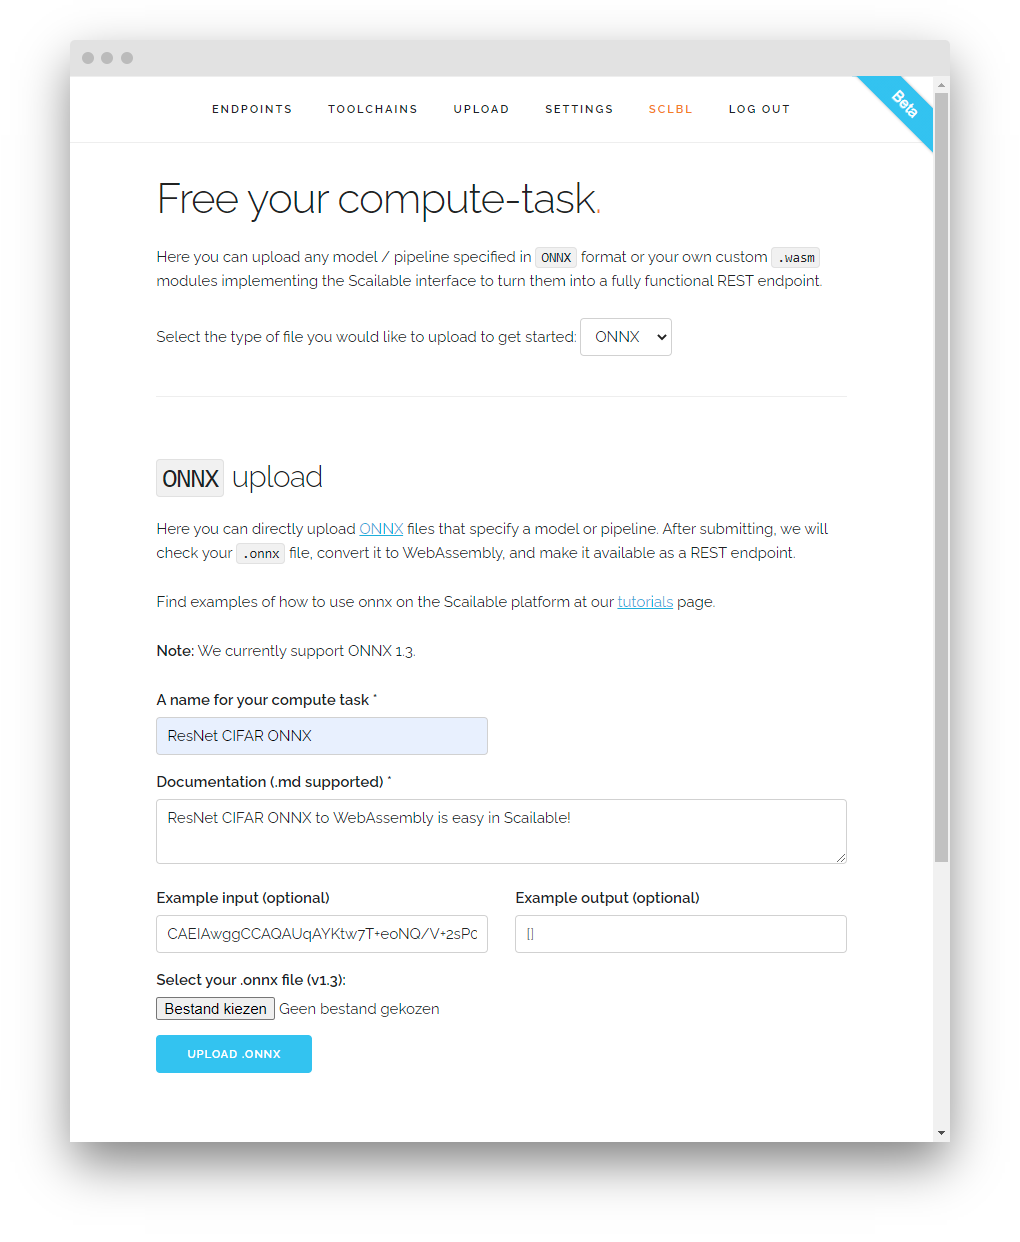
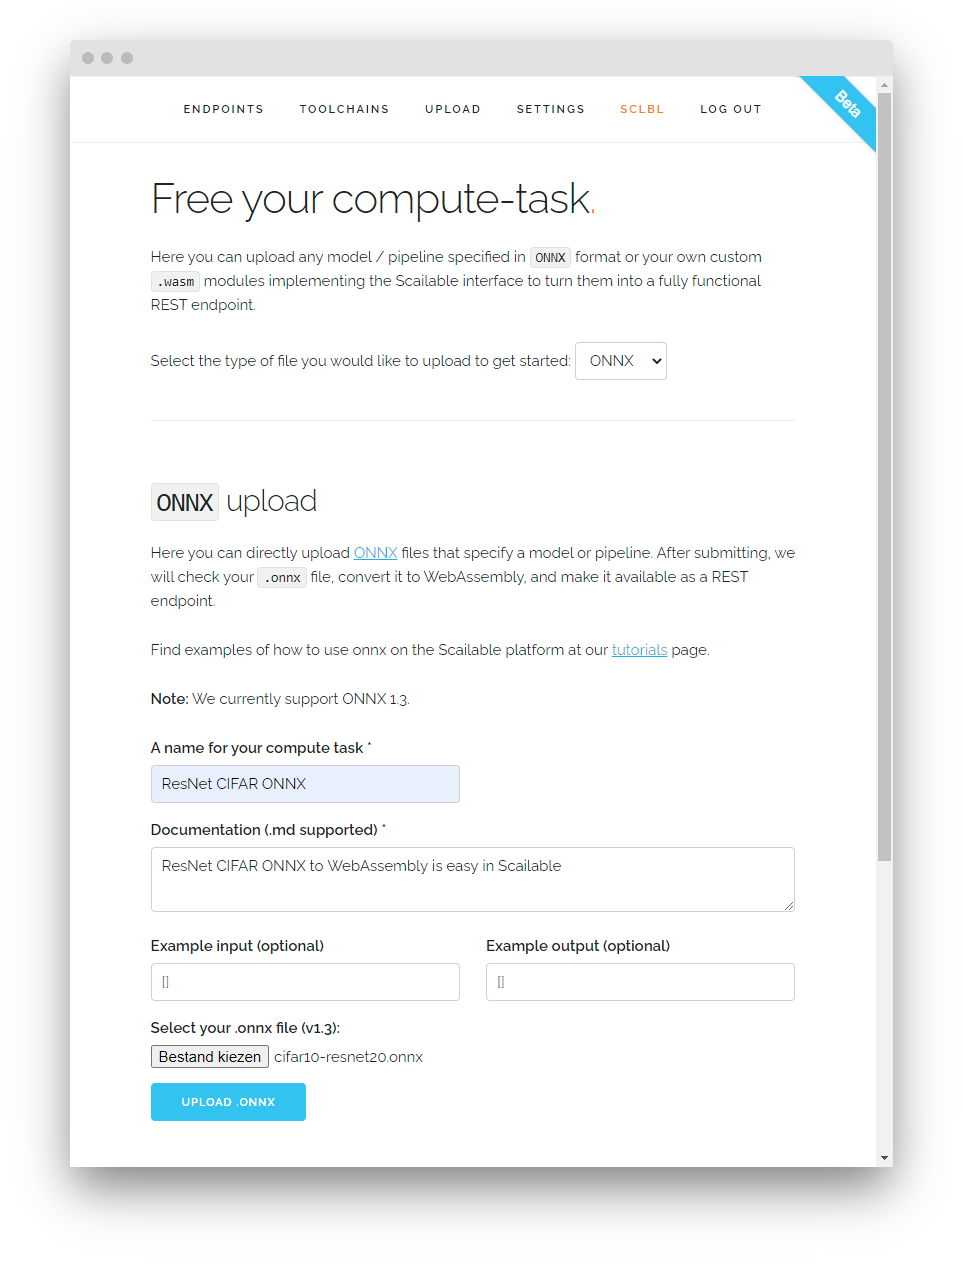
Minor edits and fixes to the PyTorch tutorial.

diff --git a/sclbl-pytorch-onnx/sources/cifar10-resnet20.py b/sclbl-pytorch-onnx/sources/cifar10-resnet20.py
@@ -1,7 +1,3 @@
-### 0.  Define CIFAR classes
-
-classes = ('plane', 'car', 'bird', 'cat', 'deer', 'dog', 'frog', 'horse', 'ship', 'truck')
-
 ### 1.  PyTorch model definition
 
 import torch.nn as nn
@@ -113,8 +109,9 @@ import torch
 state_dict = torch.load('../resources/weights/cifar10-resnet20.pth')
 model.load_state_dict(state_dict, strict=False)
 
-# set the train mode to false since we will only run the forward pass.
-model.train(False)
+# Evaluation mode on, training mode off. 
+# Necessary since layers such as dropout and batchnorm 
+# behave differently during training versus evaluation phases.
 model.eval()
 
 
@@ -125,6 +122,9 @@ model.eval()
 
 from PIL import Image
 import numpy as np
+
+# Class labels for CIFAR classes 0 to 9
+classes = ('plane', 'car', 'bird', 'cat', 'deer', 'dog', 'frog', 'horse', 'ship', 'truck')
 
 # Process the image
 def process_image(image_path):
@@ -187,12 +187,9 @@ print("The PyTorch model predicts the image is a", classes[top_class] + ".")
 
 ### 4a. Convert PyTorch to ONNX
 
-# generate dummy image
-x = torch.randn(1, 3, 32, 32, dtype=torch.float32)
-
 # export the model
 torch.onnx.export(model,                     # pytorch model
-                  x,                         # dummy input
+                  image,                     # example or dummy input
                   "cifar10-resnet20.onnx",   # name of onnx file                 
                   export_params=True,        # store the trained parameter weights inside the model file
                   opset_version=7,           # the ONNX version to export the model to
@@ -212,7 +209,9 @@ from onnxsim import simplify
 model_path     = './cifar10-resnet20.onnx'
 optimized_model = onnx.load(model_path)
 
-# set ONNX version and ONNX ir_version correctly  
+# set ONNX version and ONNX ir_version.
+# scailable currently supports ONNX version <= 1.3,
+# with ONNX IR version <= 3 and ONNX Operator Set <= 8
 optimized_model = version_converter.convert_version(optimized_model, 7) 
 optimized_model.ir_version = 3
 
@@ -243,7 +242,7 @@ onnxrt_outs = onnx_model.run(None, onnxrt_inputs)
 print(onnxrt_outs[0])
 
 # Print the prediction
-print("The PyTorch model predicts the image is a", classes[np.argmax(onnxrt_outs[0])] + ".")
+print("The ONNX model predicts the image is a", classes[np.argmax(onnxrt_outs[0])] + ".")
 
 
 

diff --git a/sclbl-pytorch-onnx/README.md b/sclbl-pytorch-onnx/README.md
@@ -6,7 +6,7 @@ In this tutorial we demonstrate how to convert a [PyTorch](https://pytorch.org/)
 In this tutorial we will cover the following steps:
 
 1. [Preparing your pretrained PyTorch model](#PyTorch). First, we prepare a pretrained PyTorch model for conversion to ONNX.
-2. [Converting the PyTorch model to ONNX](#ONNX). Next, we run the actual conversion of the PyTorch model to ONNX, clean the ONNX up, and check whether its predictions still conform to the original PyTorch model.
+2. [Converting the PyTorch model to ONNX](#ONNX). Next, we run the actual conversion of the PyTorch model to ONNX, clean the ONNX, and check whether its predictions still conform to the original PyTorch model.
 4. [ONNX model to Scailable task](#Scailable). Finally, we demonstrate how to upload the ResNet ONNX model to Scailable and how to run the resulting Scailable task directly on our servers (or in your browser).
 
 Note: The full Python source code of the current tutorial can be found in the [sources](sources) subdirectory, whereas the pretrained model's weights and CIFAR example images can be found in this tutorial's [resources](resources) subdirectory.
@@ -25,21 +25,9 @@ In the figure below, an overview of the classes in the dataset, together with 10
 
 We converted a subset of 100 (10 of each class) of the images into 32x32 PNG format. These converted images are available in the [resources/cifar](resources/cifar) subdirectory of the root PyTorch tutorial directory.
 
-### B. CIFAR classes 
+### B. Define the ResNet pretrained model
 
-To make it easier to compare the predicted category index to the correct label, we now order the classes in a Python tuple:
-
-```python
-classes = ('plane', 'car', 'bird', 'cat', 'deer', 'dog', 'frog', 'horse', 'ship', 'truck')
-```
-
-### C. Define the ResNet pretrained model
-
-The pretrained ResNet 20-layer model we will be converting in the current tutorial [was kindly made available on GitHub](https://github.com/chenyaofo/CIFAR-pretrained-models) by [Chenyaofo](https://github.com/chenyaofo). The accuracy of the relatively small (about 1 MB) 20-layer model is impressive:
-
-| Model    | Acc@1(C10) | Acc@5(C10) | Acc@1(C100) | Acc@5(C100) | #param. | FLOPs  |
-| -------- | ---------- | ---------- | ----------- | ----------- | ------- | ------ |
-| Resnet20 | 91.65      | 99.68      | 66.61       | 89.95       | 0.27M   | 40.81M |
+The pretrained ResNet 20-layer model we will be converting in the current tutorial [was kindly made available on GitHub](https://github.com/chenyaofo/CIFAR-pretrained-models) by [Chenyaofo](https://github.com/chenyaofo). 
 
 The PyTorch ResNet model consists of two parts, the model weights, which are available in our tutorial's resources/weights directory, and the model definition. The latter reads as follows:
 
@@ -151,27 +139,29 @@ class CifarResNet(nn.Module):
 model = CifarResNet(BasicBlock, [3, 3, 3], num_classes=10)
 ```
 
-### D. Merge model and weights
+### C. Merge model and weights
 
-Now that we have defined the model's structure, we can load the pretrained weights, merge them with the model, and freeze it:
+Now that we have defined the model's structure, we can load the pretrained weights, merge them with the model, and turn training mode off / evaluation mode on.
 
 ```python
 # Load the weights from a file (.pth usually)
 state_dict = torch.load('../resources/weights/cifar10-resnet20.pth')
 model.load_state_dict(state_dict, strict=False)
 
-# set the train mode to false since we will only run the forward pass.
-model.train(False)
+# Evaluation mode on, training mode off. Needed because layers such as dropout and batchnorm behave differently in train and test procedures.
 model.eval()
 ```
 
-### E. Optional: Run a prediction with the frozen PyTorch model
+### D. Optional: Run a prediction with the fitted PyTorch model
 
-Lets check if the frozen pretrained model is indeed able to recognize random CIFAR images. To do so, we first need to define some helper functions that preprocesses the images in exactly the same way as during the original training:
+Lets check if the pretrained model is indeed able to recognize random CIFAR images. To do so, we first need to define some helper functions that preprocesses the images in exactly the same way as during the original training:
 
 ```python
 from PIL import Image
 import numpy as np
+
+# Class labels for CIFAR classes 0 to 9
+classes = ('plane', 'car', 'bird', 'cat', 'deer', 'dog', 'frog', 'horse', 'ship', 'truck')
 
 # Process the image
 def process_image(image_path):
@@ -245,7 +235,7 @@ On running the code, the PyTorch model successfully predicts a horse - yay!
 <a name="ONNX"></a>
 
 # 2. PyTorch to ONNX
-Where the previous section offered a basic overview of generic PyTorch modeling, the current section demonstrates how to convert any PyTorch model to the open ONNX format. To quote [ONNX.ai](https://onnx.ai/):
+The current section demonstrates how to convert any PyTorch model to the open ONNX format. To quote [ONNX.ai](https://onnx.ai/):
 
 > **ONNX is an open format built to represent machine learning models.** ONNX defines a common set of operators - the building blocks of machine learning and deep learning models - and a common file format to enable AI developers to use models with a variety of frameworks, tools, runtimes, and compilers.
 >
@@ -255,21 +245,18 @@ Since Scailable offers out-of-the-box [ONNX](https://onnx.ai/) to [WebAssembly](
 
 ### A. Main PyTorch to ONNX conversion
 
-The frozen [ResNet](https://en.wikipedia.org/wiki/Residual_neural_network) model of the previous section is all set to be converted to ONNX. Which just takes the two following lines of code:
+The fitted [ResNet](https://en.wikipedia.org/wiki/Residual_neural_network) model of the previous section is all set to be converted to ONNX. ONNX export from Pytorch is done by tracing the graph; that is, it executes the graph once with an example or dummy input it's given. While executing the graph, it keeps track of PyTorch operations executed and then converts each of those operations to ONNX format. 
 
 ```python
-# generate dummy image
-x = torch.randn(1, 3, 32, 32, dtype=torch.float32)
-
 # export the model
 torch.onnx.export(model,                     # pytorch model
-                  x,                         # dummy input
+                  image,                     # example or dummy input
                   "cifar10-resnet20.onnx",   # name of onnx file                 
-                  export_params=True,        # store the trained parameter weights inside the model file
+                  export_params=True,        # store trained parameter weights inside the model file
                   opset_version=7,           # the ONNX version to export the model to
                   do_constant_folding=True,  # whether to execute constant folding for optimization
-                  input_names = ['input'],   # the model's input node name - "input" is generally the safest choice
-                  output_names = ['output']) # the model's output node name - "output" is generally the safest choice
+                  input_names = ['input'],   # the model's input node name; "input" is the safest choice
+                  output_names = ['output']) # the model's output node name; "output" is the safest choice
 ```
 
 ### B. Cleaning up
@@ -286,7 +273,9 @@ from onnxsim import simplify
 model_path     = './cifar10-resnet20.onnx'
 optimized_model = onnx.load(model_path)
 
-# set ONNX version and ONNX ir_version correctly  
+# set ONNX version and ONNX ir_version.
+# scailable currently supports ONNX version <= 1.3,
+# with ONNX IR version <= 3 and ONNX Operator Set <= 8
 optimized_model = version_converter.convert_version(optimized_model, 7) 
 optimized_model.ir_version = 3
 
@@ -320,7 +309,7 @@ onnxrt_outs = onnx_model.run(None, onnxrt_inputs)
 print(onnxrt_outs[0])
 
 # Print the prediction
-print("The PyTorch model predicts the image is a", classes[np.argmax(onnxrt_outs[0])] + ".")
+print("The ONNX model predicts the image is a", classes[np.argmax(onnxrt_outs[0])] + ".")
 ```
 
 Let's run the code, and see what the ONNX model predicts:
@@ -344,9 +333,33 @@ With a value of 20.078842, our model picks "horse" again - looking good! We are 
 
 Once you have followed the guidelines above and have generated a standards compliant ONNX v1.3 model, you can now just upload the resulting ONNX file on our website and send it an input image through, for instance, our RESTful interface. 
 
-### A. ONNX model input format
+### A. Upload ONNX model
 
-There is, however, one important caveat: The input image needs to be base64 encoded ONNX ProtoBuf formatted. In Python that entails converting (for instance) our **horse5.png** image to a base64 encoded ProtoBuf string by running:
+Now that you have both a suitable ONNX file you can generate a Scailable WebAssembly binary by logging in to the Scailable admin interface at [admin.sclbl.net](https://admin.sclbl.net/), selecting the [upload](https://admin.sclbl.net/upload.html,) tab, choosing "ONNX" type file upload, filling out all relevant fields, and clicking the `UPLOAD .ONNX` button:
+
+
+
+<img src="images/upload.png" alt="upload" style="zoom:67%;" />
+
+On filling out the form and clicking the big blue button, [admin.sclbl.net](https://admin.sclbl.net/) will report that the ONNX file has been uploaded successfully:
+
+<img src="images/complete.png" alt="complete" style="zoom:67%;" />
+
+When the Scailable ONNX toolchain has completed the conversion of ONNX to WebAssembly, you will receive an e-mail with a link to the demo page:
+
+<p align="center">
+<img src="images/mail.png" alt="mail"  />
+</p>
+
+
+
+Your Compute Function is now available in your list of "Available Endpoints" in your Scailable account:
+
+<img src="images/endponts.png" alt="endponts" style="zoom:67%;" />
+
+### B. Generate an input string
+
+Let's take our newly converted Scailable task for a spin! To do so, we first need to generate an input string. Here, we convert our **horse5.png** image to a base64 encoded ProtoBuf string by running:
 
 ```python
 from onnx import numpy_helper
@@ -368,39 +381,15 @@ print(str(base64_input, "ascii"))
 CAEIAwggCCAQAUqAYKtw7T+eoNQ/V+2sP0odlD ... bKTP+Uxlj+GMJs/1q+dPyYvoD92rqI/dq6iP3auoj82sZg/F62nPw==
 ```
 
-The full base64 example string based on the **horse5.png** image can be found as [resnet.cifar.model.base64.txt](resources/base64/resnet.cifar.model.base64.txt) in this example's [resources/base64](resources/base64) subdirectory.
+The full base64 example string based on the **horse5.png** image is available in the [resnet.cifar.model.base64.txt](resources/base64/resnet.cifar.model.base64.txt) file in the [resources/base64](resources/base64) subdirectory.
 
-### B. Upload ONNX model
+### C. Run a prediction using the Scailable compute task
 
-Now that you have both a suitable ONNX file and an example input string, you can generate a Scailable WebAssembly binary by logging in to the Scailable admin interface at [admin.sclbl.net](https://admin.sclbl.net/), selecting the [upload](https://admin.sclbl.net/upload.html,) tab, choosing "ONNX" type file upload, filling out all relevant fields (optionally pasting the base64 encoded example string into the Example Input field), and clicking the `UPLOAD .ONNX` button:
-
-
-
-<img src="images/upload.png" alt="upload" style="zoom:67%;" />
-
-On filling out the form and clicking the `UPLOAD .ONNX` , the admin.sclbl.net will report that the ONNX file has been uploaded successfully:
-
-<img src="images/complete.png" alt="complete" style="zoom:67%;" />
-
-When the Scailable ONNX toolchain has completed the conversion of ONNX to WebAssembly, you will receive an e-mail with a link to the demo page:
-
-<p align="center">
-<img src="images/mail.png" alt="mail"  />
-</p>
-
-
-
-Your Compute Function is now available in your list of "Available Endpoints" in your Scailable account:
-
-<img src="images/endponts.png" alt="endponts" style="zoom:67%;" />
-
-
-
-On selecting the endpoint, you can take the converted model for a test run:
+On selecting the endpoint, you can now copy and paste this string into the "Input to the task" field, click the blue "RUN" button, and check the resulting output:
 
 <img src="images/try.png" alt="try" style="zoom:67%;" />
 
-Super! The resulting prediction equals the original output of the PyTorch model in **1.E**:
+Super! The prediction equals the original output of the PyTorch model in **1.E**:
 
 ```cmd
 {"output": [-6.3170, 0.4025, -3.2693, -2.8926, 6.9177, -2.1800, -4.8414, 20.0788, -5.9166, -1.9814]}
